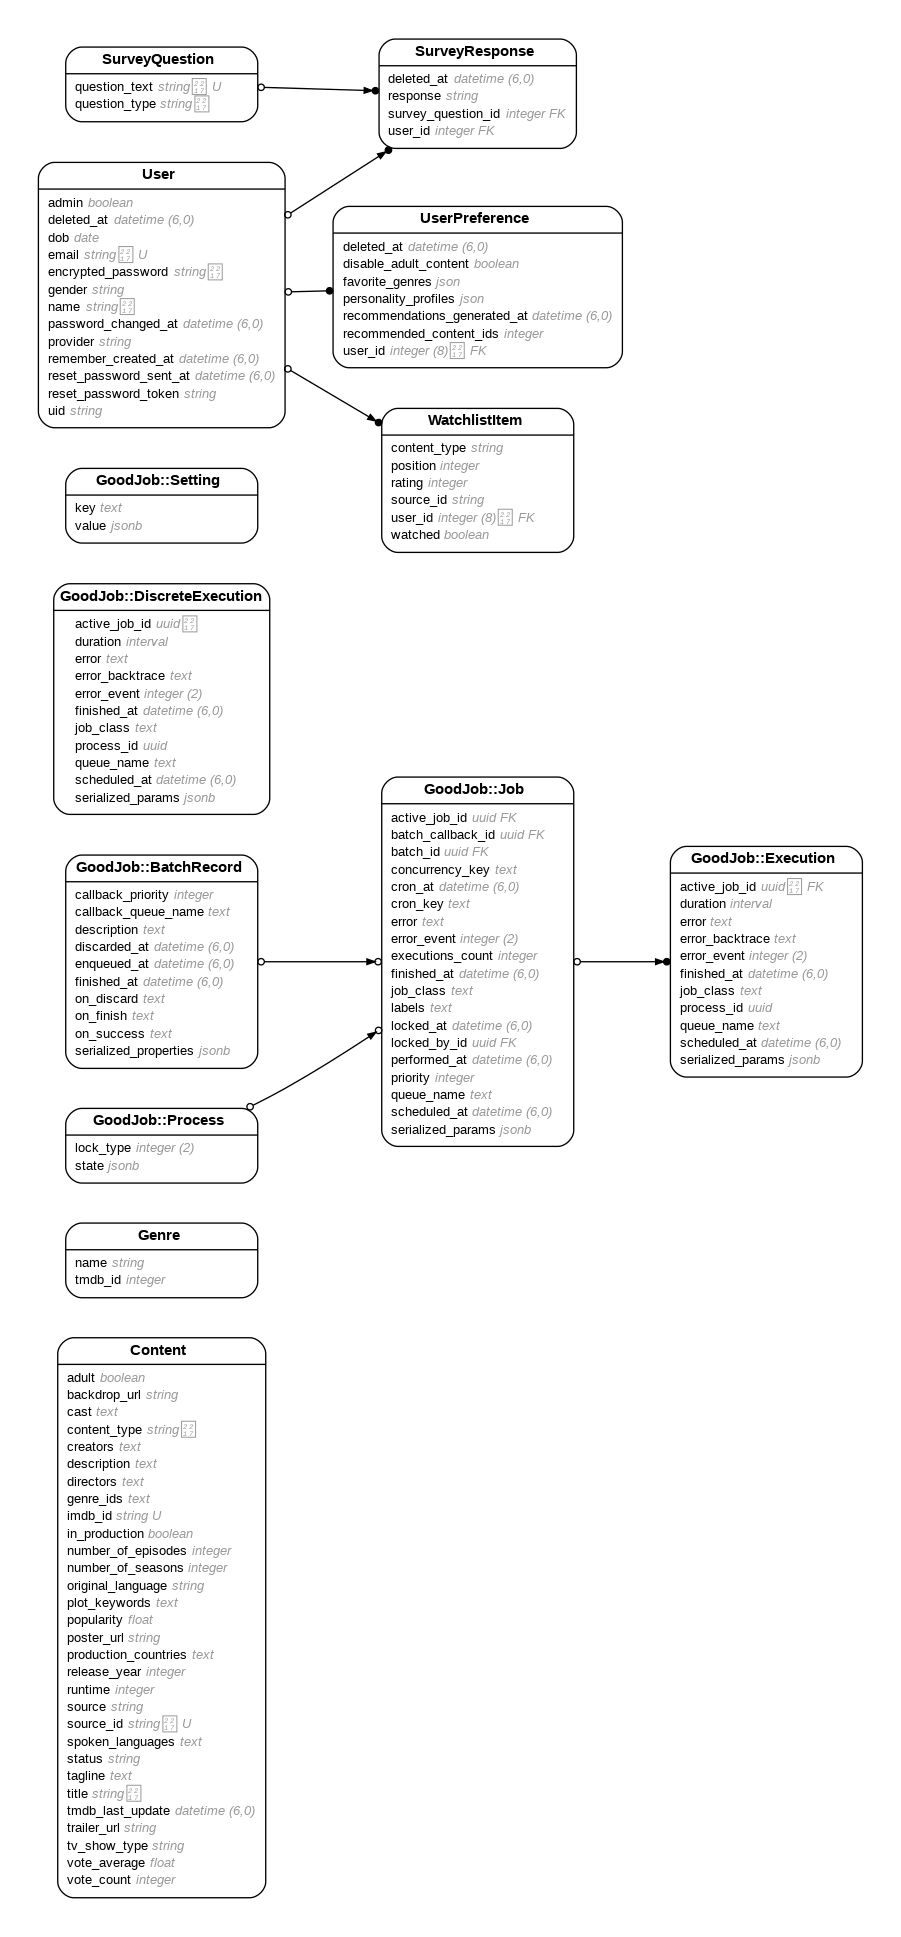
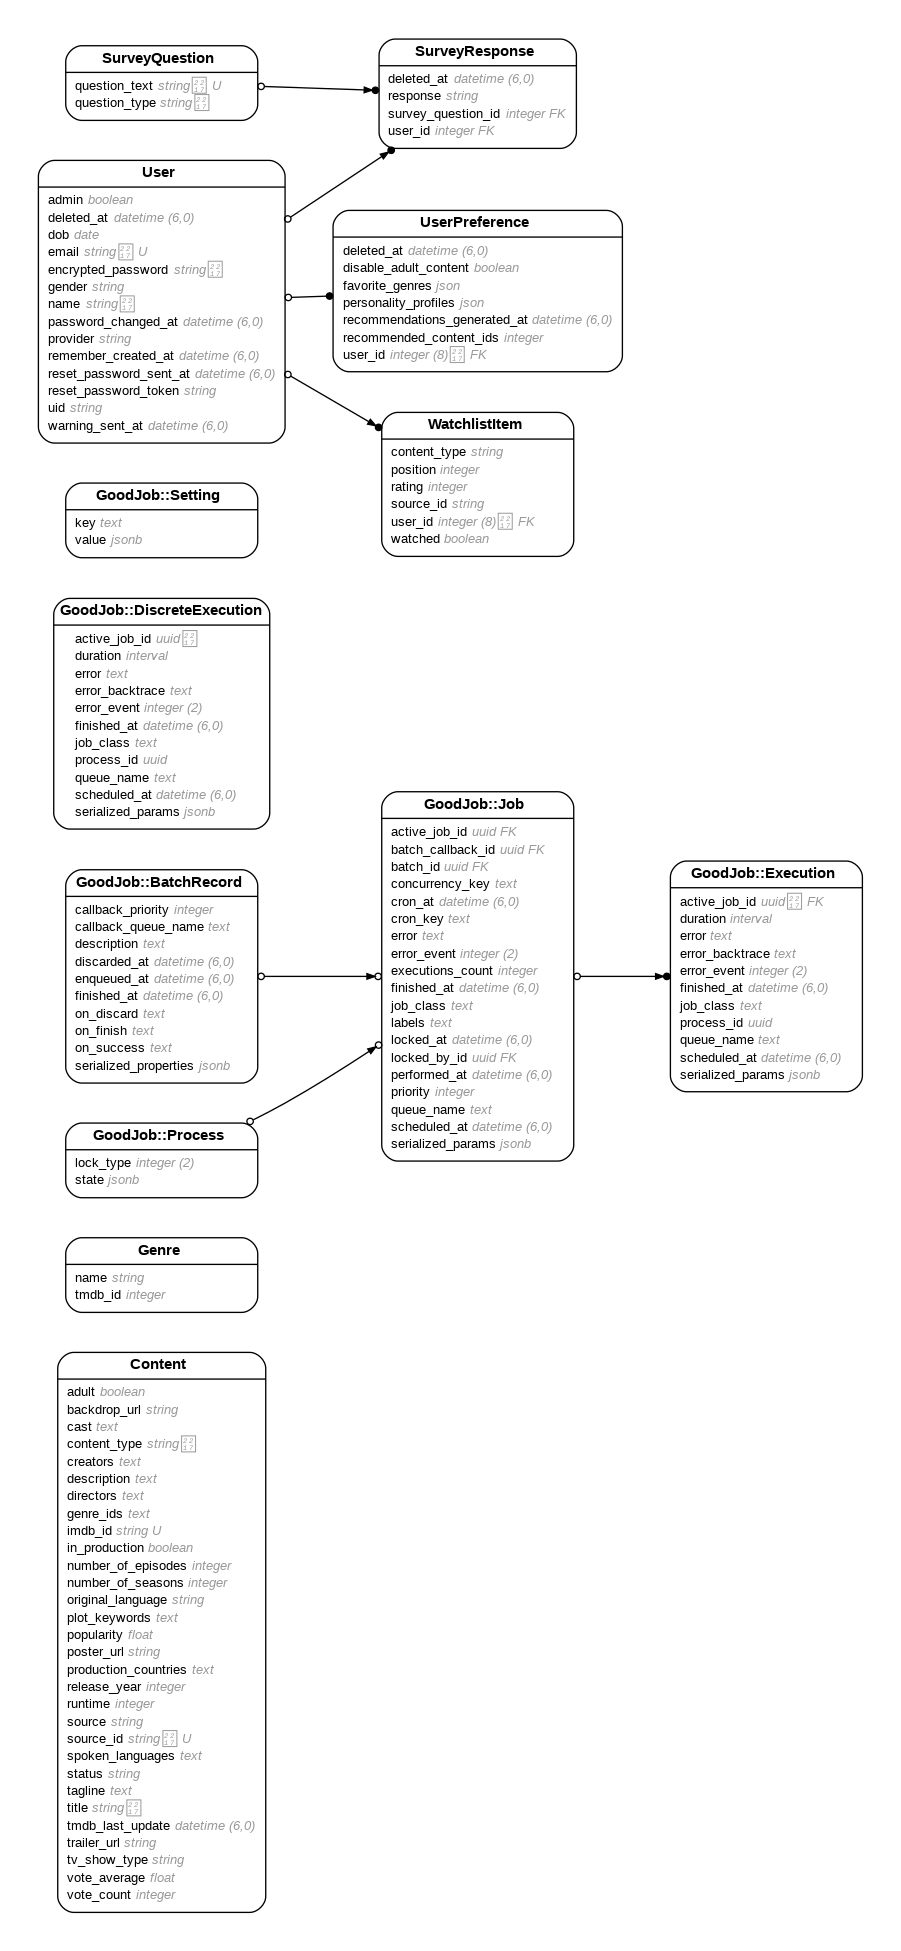
implement warning emails and underage stats for admin

diff --git a/app/assets/stylesheets/active_admin.scss b/app/assets/stylesheets/active_admin.scss
@@ -127,3 +127,19 @@
     border-top: none;
   }
 }
+
+.underage {
+  background-color: rgba(255, 0, 0, 0.1) !important;
+}
+
+.status_tag {
+  &.error {
+    background-color: #d45f53;
+  }
+  &.warning {
+    background-color: #e29b20;
+  }
+  &.ok {
+    background-color: #8daa92;
+  }
+}

diff --git a/app/admin/users.rb b/app/admin/users.rb
@@ -3,6 +3,54 @@
 ActiveAdmin.register User do
   permit_params :email, :password, :password_confirmation, :name, :dob, :gender, :admin
 
+  scope :all
+  scope :underage, -> { where("dob > ? AND dob IS NOT NULL", 13.years.ago.to_date) }
+  scope :teenage, -> { where("dob > ? AND dob <= ? AND dob IS NOT NULL", 18.years.ago.to_date, 13.years.ago.to_date) }
+  scope :adult, -> { where("dob <= ? AND dob IS NOT NULL", 18.years.ago.to_date) }
+  scope :warned, -> { where.not(warning_sent_at: nil) }
+  scope :not_warned, -> { underage.where(warning_sent_at: nil) }
+
+  filter :dob_gt, label: 'Born after', as: :datepicker
+  filter :dob_lt, label: 'Born before', as: :datepicker
+  filter :warning_sent_at
+  
+  batch_action :send_warning_emails do |ids|
+    sent_count = 0
+    batch_action_collection.find(ids).each do |user|
+      if user.underage?
+        user.send_underage_warning_email
+        sent_count += 1
+      end
+    end
+    redirect_to collection_path, notice: "Warning emails have been sent to #{sent_count} underage users"
+  end
+
+  member_action :send_warning_email, method: :put do
+    resource.send_underage_warning_email
+    resource.reload
+    redirect_to resource_path, notice: "Warning email sent at #{resource.warning_sent_at.strftime('%Y-%m-%d %H:%M:%S')}"
+  end
+
+  member_action :reset_warning, method: :put do
+    resource.update_column(:warning_sent_at, nil)
+    resource.reload
+    redirect_to resource_path, notice: "Warning status has been reset"
+  end
+
+  action_item :send_warning_email, only: :show do
+    if resource.underage?
+      link_to 'Send Warning Email', send_warning_email_admin_user_path(resource), method: :put
+    end
+  end
+
+  action_item :reset_warning, only: :show do
+    if resource.warning_sent_at.present?
+      link_to 'Reset Warning Status', reset_warning_admin_user_path(resource), 
+              method: :put,
+              data: { confirm: 'Are you sure? This will reset the warning status.' }
+    end
+  end
+
   index do
     selectable_column
     id_column
@@ -10,6 +58,19 @@ ActiveAdmin.register User do
     column :email
     column :gender
     column :dob
+    column :age do |user|
+      if user.dob
+        age = ((Time.current - user.dob.to_time) / 1.year).floor
+        status_tag(age, class: user.underage? ? 'error' : 'ok')
+      else
+        "Not set"
+      end
+    end
+    column :warning_sent_at do |user|
+      if user.warning_sent_at
+        status_tag(user.warning_sent_at.strftime('%Y-%m-%d'), class: 'warning')
+      end
+    end
     column :admin
     column :provider
     column :created_at
@@ -33,8 +94,8 @@ ActiveAdmin.register User do
       f.input :gender, as: :select, collection: ['Male', 'Female', 'Non-binary']
       f.input :dob, as: :datepicker
       f.input :admin, as: :boolean
-      f.input :password
-      f.input :password_confirmation
+      f.input :password, hint: "Leave blank if you don't want to change it"
+      f.input :password_confirmation, hint: "Leave blank if you don't want to change it"
     end
     f.actions
   end
@@ -51,6 +112,12 @@ ActiveAdmin.register User do
       row :uid
       row :created_at
       row :updated_at
+      row :warning_sent_at
+      row :days_since_warning do |user|
+        if user.warning_sent_at
+          ((Time.current - user.warning_sent_at) / 1.day).floor
+        end
+      end
     end
 
     panel "User Preferences" do
@@ -70,24 +137,53 @@ ActiveAdmin.register User do
   end
 
   controller do
-    def index
-      index! do |format|
-        format.html
-        format.csv { send_data collection.to_csv }
-        format.pdf do
-          pdf = UserPdf.new(collection)
-          send_data pdf.render, filename: 'users.pdf', type: 'application/pdf', disposition: 'inline'
-        end
+    def action_methods
+      super
+    end
+
+    def scoped_collection
+      end_of_association_chain.includes(:user_preference, :survey_responses)
+    end
+
+    def update
+      if params[:user][:password].blank? && params[:user][:password_confirmation].blank?
+        params[:user].delete(:password)
+        params[:user].delete(:password_confirmation)
       end
+      super
     end
   end
 
   # Define collection to be used in index
   def self.ransackable_attributes(auth_object = nil)
-    ["admin", "created_at", "dob", "email", "gender", "id", "name", "provider", "uid"]
+    ["admin", "created_at", "dob", "email", "gender", "id", "name", "provider", "uid", "warning_sent_at"]
   end
 
   def self.ransackable_associations(auth_object = nil)
     ["user_preference", "survey_responses"]
+  end
+
+  # Add this to customize row styling
+  index as: :table do |user|
+    row_class = user.underage? ? 'underage' : ''
+    tr(class: row_class)
+  end
+
+  sidebar "User Statistics", only: :index do
+    div class: "user-stats" do
+      h4 "Age Groups"
+      ul do
+        li "Under 13: #{User.underage.count}"
+        li "13-18: #{User.teenage.count}"
+        li "Over 18: #{User.adult.count}"
+        li "No DOB set: #{User.where(dob: nil).count}"
+      end
+
+      h4 "Warning Status"
+      ul do
+        li "Warned: #{User.warned.count}"
+        li "Underage Not Warned: #{User.not_warned.count}"
+      end
+    end
   end
 end

diff --git a/app/models/user.rb b/app/models/user.rb
@@ -18,6 +18,7 @@
 #  reset_password_sent_at :datetime
 #  reset_password_token   :string
 #  uid                    :string
+#  warning_sent_at        :datetime
 #  created_at             :datetime         not null
 #  updated_at             :datetime         not null
 #
@@ -27,6 +28,7 @@
 #  index_users_on_email                 (email) UNIQUE
 #  index_users_on_provider_and_uid      (provider,uid) UNIQUE
 #  index_users_on_reset_password_token  (reset_password_token) UNIQUE
+#  index_users_on_warning_sent_at       (warning_sent_at)
 #
 class User < ApplicationRecord
   acts_as_paranoid
@@ -51,6 +53,11 @@ class User < ApplicationRecord
   attr_accessor :skip_password_complexity
 
   scope :admins, -> { where(admin: true) }
+  scope :underage, -> { where("dob > ? AND dob IS NOT NULL", 13.years.ago.to_date) }
+  scope :teenage, -> { where("dob > ? AND dob <= ? AND dob IS NOT NULL", 18.years.ago.to_date, 13.years.ago.to_date) }
+  scope :adult, -> { where("dob <= ? AND dob IS NOT NULL", 18.years.ago.to_date) }
+  scope :warned, -> { where.not(warning_sent_at: nil) }
+  scope :not_warned, -> { underage.where(warning_sent_at: nil) }
 
   def admin?
     admin == true
@@ -70,10 +77,34 @@ class User < ApplicationRecord
 
   def validate_age
     return unless dob.present?
+    return if dob.nil?  # Extra safety check
     
     if dob > 13.years.ago.to_date
       errors.add(:dob, "You must be at least 13 years of age to register")
     end
+  end
+
+  def underage?
+    return false if dob.nil?
+    dob > 13.years.ago.to_date
+  end
+
+  def send_underage_warning_email
+    Rails.logger.info "Sending warning email to user #{id} (Before update: warning_sent_at=#{warning_sent_at})"
+    
+    # Send email first
+    ContactMailer.underage_warning(self).deliver_later
+    
+    # Explicitly touch warning_sent_at
+    current_time = Time.current
+    update_result = update_column(:warning_sent_at, current_time)
+    
+    Rails.logger.info "Warning email update completed for user #{id}. Result: #{update_result}, New warning_sent_at=#{reload.warning_sent_at}"
+    update_result
+  end
+
+  def should_validate_password?
+    new_record? || password.present? || password_confirmation.present?
   end
 
   private
@@ -88,7 +119,7 @@ class User < ApplicationRecord
   end
 
   def self.ransackable_attributes(auth_object = nil)
-    ["admin", "created_at", "deleted_at", "dob", "email", "gender", "id", "name", "provider", "uid", "updated_at"]
+    ["admin", "created_at", "deleted_at", "dob", "email", "gender", "id", "name", "provider", "uid", "updated_at", "warning_sent_at"]
   end
 
   def self.ransackable_associations(auth_object = nil)

diff --git a/db/schema.rb b/db/schema.rb
@@ -10,7 +10,7 @@
 #
 # It's strongly recommended that you check this file into your version control system.
 
-ActiveRecord::Schema[7.1].define(version: 2024_10_21_135027) do
+ActiveRecord::Schema[7.1].define(version: 2024_11_21_164006) do
   # These are extensions that must be enabled in order to support this database
   enable_extension "pg_trgm"
   enable_extension "pgcrypto"
@@ -212,10 +212,12 @@ ActiveRecord::Schema[7.1].define(version: 2024_10_21_135027) do
     t.string "provider"
     t.string "uid"
     t.datetime "deleted_at"
+    t.datetime "warning_sent_at"
     t.index ["deleted_at"], name: "index_users_on_deleted_at"
     t.index ["email"], name: "index_users_on_email", unique: true
     t.index ["provider", "uid"], name: "index_users_on_provider_and_uid", unique: true
     t.index ["reset_password_token"], name: "index_users_on_reset_password_token", unique: true
+    t.index ["warning_sent_at"], name: "index_users_on_warning_sent_at"
   end
 
   create_table "watchlist_items", force: :cascade do |t|

diff --git a/app/controllers/application_controller.rb b/app/controllers/application_controller.rb
@@ -17,11 +17,7 @@ class ApplicationController < ActionController::Base
   end
 
   def skip_authorization?
-    devise_controller? || pages_controller? || active_admin_controller?
-  end
-
-  def active_admin_controller?
-    is_a?(ActiveAdmin::BaseController)
+    devise_controller? || pages_controller? || is_a?(ActiveAdmin::BaseController) || self.class.ancestors.include?(ActiveAdmin::BaseController)
   end
 
   def pages_controller?

diff --git a/app/mailers/contact_mailer.rb b/app/mailers/contact_mailer.rb
@@ -8,4 +8,13 @@ class ContactMailer < ApplicationMailer
     @message = message
     mail(from: "Cinematch <info@cinematch.net>", reply_to: email, subject: "Cinematch Contact: #{subject}")
   end
+
+  def underage_warning(user)
+    @user = user
+    mail(
+      to: user.email,
+      subject: "Important Notice: Age Requirement for Your Cinematch Account",
+      template_name: 'underage_warning'
+    )
+  end
 end

diff --git a/app/policies/user_policy.rb b/app/policies/user_policy.rb
@@ -33,6 +33,14 @@ class UserPolicy < ApplicationPolicy
     user == record
   end
 
+  def send_warning_email?
+    user.admin?
+  end
+
+  def reset_warning?
+    user.admin?
+  end
+
   class Scope < ApplicationPolicy::Scope
     def resolve
       if user.admin?

diff --git a/db/migrate/20241121164006_add_warning_sent_at_to_users.rb b/db/migrate/20241121164006_add_warning_sent_at_to_users.rb
@@ -1,0 +1,6 @@
+class AddWarningSentAtToUsers < ActiveRecord::Migration[7.1]
+  def change
+    add_column :users, :warning_sent_at, :datetime
+    add_index :users, :warning_sent_at
+  end
+end
